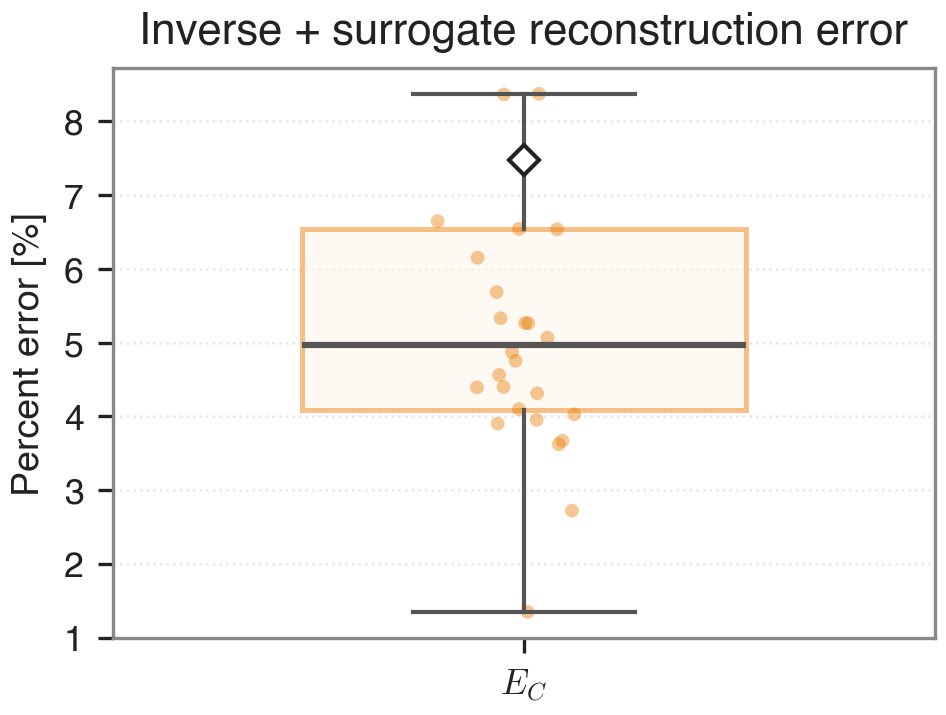
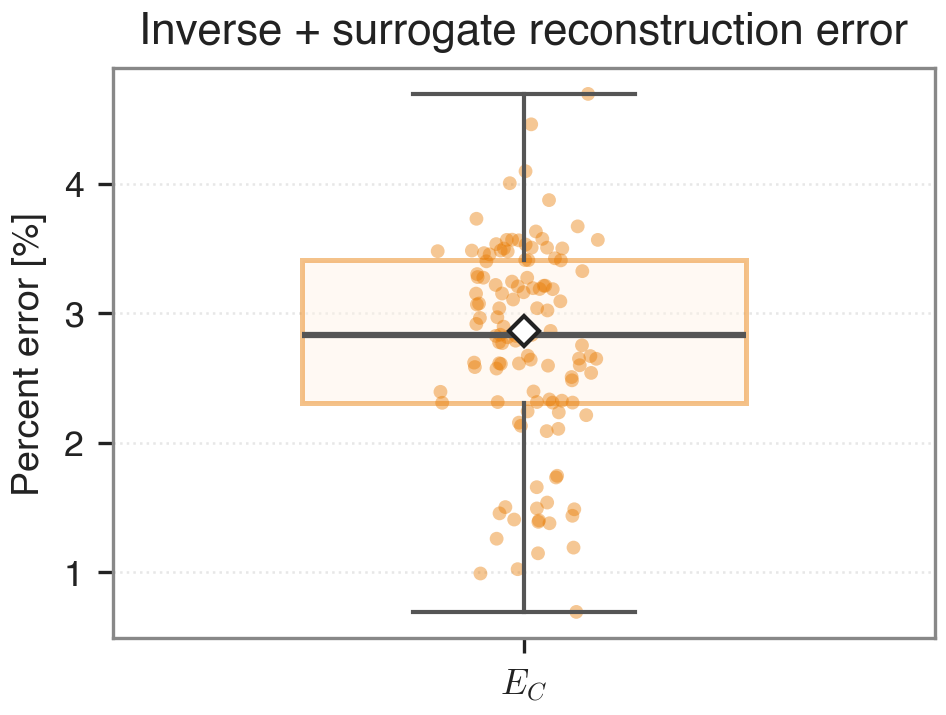
updated boxplot for new e_c data that ws calculated more precicely

diff --git a/figures/paper/generate_ansys_validation_ec_boxplot.py b/figures/paper/generate_ansys_validation_ec_boxplot.py
@@ -32,7 +32,7 @@ from build_manuscript_exports import (
     use_paper_style,
 )
 
-DEFAULT_CSV = Path.home() / "Downloads" / "ref_vs_pred_EC.csv"
+DEFAULT_CSV = Path.home() / "Downloads" / "inverse_model_ansys_results.csv"
 
 
 def main() -> None:
